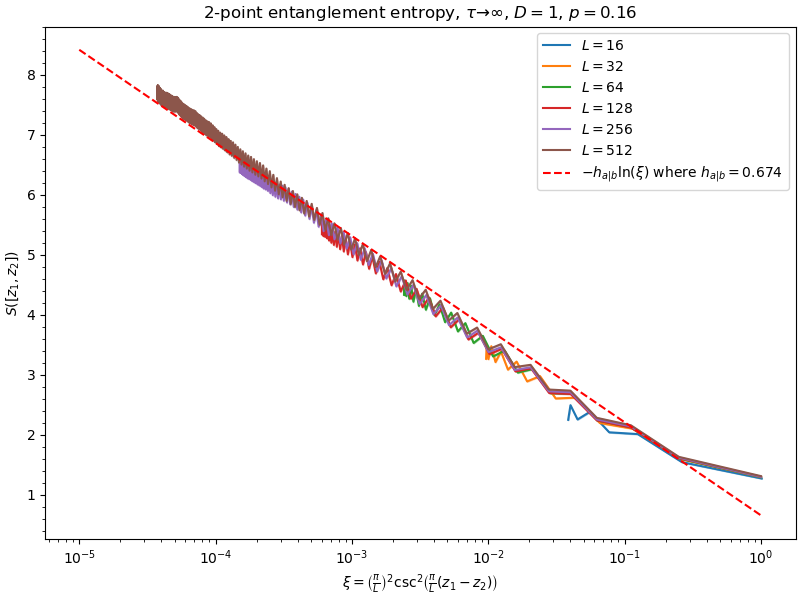
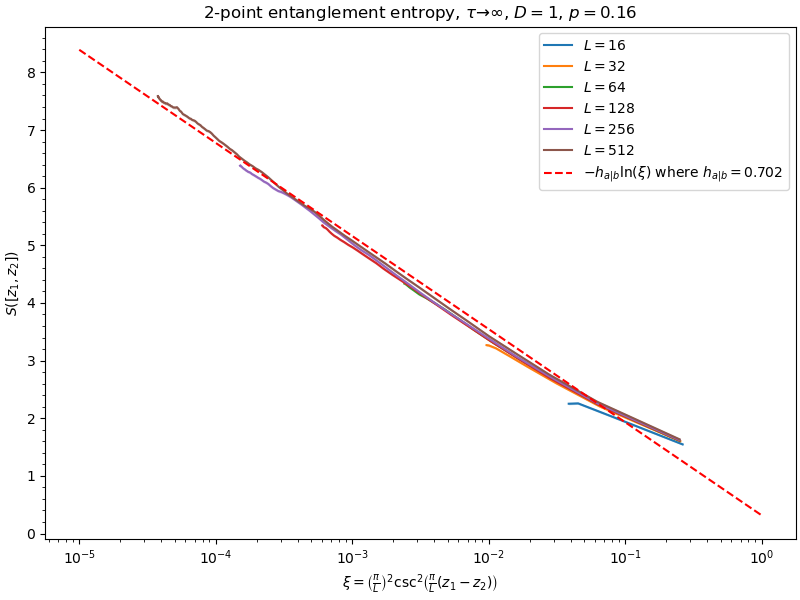
Increase depth

diff --git a/S_all.py b/S_all.py
@@ -44,7 +44,7 @@ t -= 1
 D = 1
 L = 2**(4+t)
 
-depth = int(L / 2)
+depth = int(16*L)
 shots = 256
 timesteps = 128
 N = L * D
